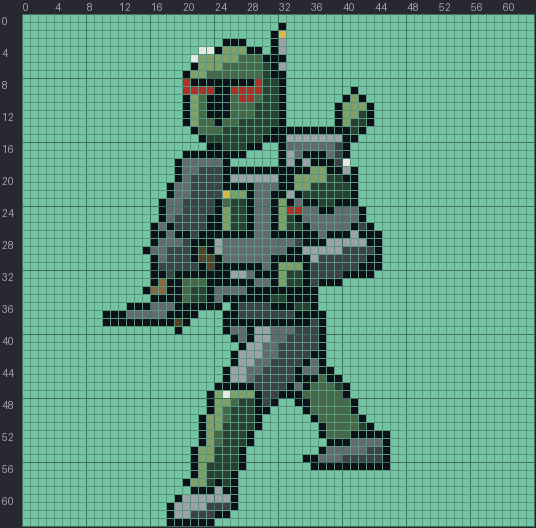
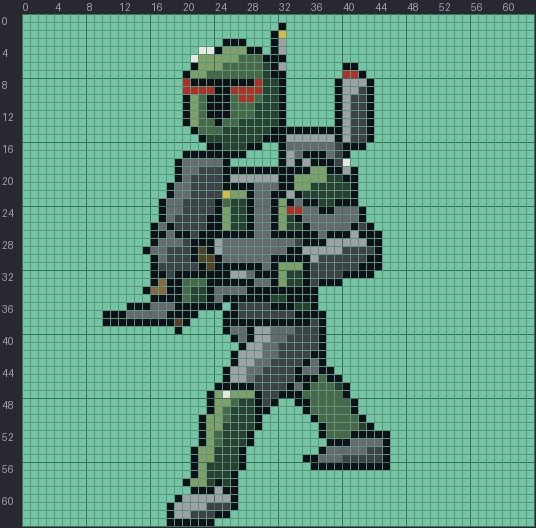
Add Obi-Wan and the round-4 style check sheet for trainer pics
- obiwan (replaces champion_wallace) in the picked 4b style; Boba's
  jetpack rocket redrawn.
- output/trainers/style-check-r4.png: Vader 4b, Boba Fett, Leia, Obi-Wan.
- Style guide: layering rule (faces as rig pixel layers under props),
  feedback log; README, checklist and decisions updated. P4 and P4c
  removed after the owner picked 4b.

Changed region(s): [[0.6269, 0.1212, 0.7164, 0.303]]

diff --git a/CHECKLIST.md b/CHECKLIST.md
@@ -28,7 +28,7 @@ as the work.
 | Tool | Status | Covers | Categories | Files | Drawn | Guide |
 | --- | --- | --- | --- | --- | --- | --- |
 | `walker` | **READY** | 16x32 people walkers (9-frame standard sheet) | A6, B3, C4 | 207 | 1 | [pipelines/walker/README.md](pipelines/walker/README.md) |
-| `trainer-front` | **IN-REVIEW** | 64x64 trainer battle pics with their own 16-colour palette | B1, B4 | 95 | 1 | [pipelines/trainer-front/README.md](pipelines/trainer-front/README.md) |
+| `trainer-front` | **IN-REVIEW** | 64x64 trainer battle pics with their own 16-colour palette | B1, B4 | 95 | 4 | [pipelines/trainer-front/README.md](pipelines/trainer-front/README.md) |
 | `trainer-back` | **TODO-NEED-TO-BUILD** | Player/partner battle back sprites (4-5 frame throw sheets) | B2 | 8 | 0 | - |
 | `creature` | **TODO-NEED-TO-BUILD** | Creature (Pokémon) battle front + 2nd anim frame, back, normal/shiny palettes | A1, A2, A5 | 1262 | 0 | - |
 | `icon` | **TODO-NEED-TO-BUILD** | Small fixed-size stills: item icons, berries, decorations, balls, type labels, creature party icons, footprints | A3, A4, C1, C2, C3, C5, C6 | 1144 | 0 | - |
@@ -43,7 +43,7 @@ as the work.
 ## Categories
 
 <!-- audit:categories -->
-**4064 PNGs to draw, 2 drawn** across 48 categories (unused art excluded). 3 `.pal` files sit outside any category (shared UI/misc palettes, owned by the tool that edits that screen).
+**4064 PNGs to draw, 5 drawn** across 48 categories (unused art excluded). 3 `.pal` files sit outside any category (shared UI/misc palettes, owned by the tool that edits that screen).
 
 ### A. Creatures
 
@@ -60,7 +60,7 @@ as the work.
 
 | # | Category | Where it shows | Format | PNGs | .pal | Drawn | Tool | Tool status |
 | --- | --- | --- | --- | --- | --- | --- | --- | --- |
-| B1 | Trainer battle front pics | Trainer battles, trainer card, Hall of Fame, Battle Frontier | 64x64, 1 frame, own 16-colour palette taken from the PNG | 93 |  | 1 | `trainer-front` | IN-REVIEW |
+| B1 | Trainer battle front pics | Trainer battles, trainer card, Hall of Fame, Battle Frontier | 64x64, 1 frame, own 16-colour palette taken from the PNG | 93 |  | 4 | `trainer-front` | IN-REVIEW |
 | B2 | Player battle back pics | Your side when a battle starts (ball throw) | 64x256/64x320 = 4-5 frames of 64x64, palette in graphics/trainers/palettes | 8 | 6 | 0 | `trainer-back` | TODO-NEED-TO-BUILD |
 | B3 | People overworld walkers | Overworld NPCs, player, rivals | 16x32 x 9 frames (standard), plus 32x32 big, 16x16 small and special sheets (bike, surf, fish, field move) | 133 | 36 | 1 | `walker` | READY (16x32 kit); other kits TODO-NEED-TO-BUILD |
 | B4 | Professor speech portrait | New-game intro | birch 64x64 still + shadow/unused frames | 2 |  | 0 | `trainer-front` | IN-REVIEW |
@@ -159,7 +159,7 @@ Work one tool at a time: build it, show the owner mockups in chat, iterate, mark
 1. [x] Audit every asset category, generate this checklist (2026-10-31).
 2. [x] Restructure the repo: `art/<category>/`, `output/<category>/`, `pipelines/<tool>/`, `catalog/`.
 3. [x] `walker` 16x32 people kit: Vader approved.
-4. [ ] `trainer-front`: tool built; Vader round 1 rejected (flat, front-on); round 2 (pose rig) picked the salute; round 3 (salute drawn with perspective) **IN-REVIEW**. Style guide: `pipelines/trainer-front/STYLE-GUIDE.md`.
+4. [ ] `trainer-front`: tool built; Vader round 1 rejected (flat, front-on); round 3 picked 4b's style; round 4 style check (Vader, Boba Fett, Leia, Obi-Wan) **IN-REVIEW**. Style guide: `pipelines/trainer-front/STYLE-GUIDE.md`.
 5. [ ] `trainer-back`: player throw sheets (needs the player character decided).
 6. [ ] `creature`: battle front (2 frames) + back + shiny palette.
 7. [ ] `icon`: item icons first (218), then berries, decorations, balls, type labels; derive party icons and footprints from creature fronts.

diff --git a/pipelines/trainer-front/STYLE-GUIDE.md b/pipelines/trainer-front/STYLE-GUIDE.md
@@ -91,7 +91,10 @@ drawn that way." What vanilla does instead (study Steven, Norman, Maxie, Drake a
    layers use the darker ramp.
 3. Build and look at `zoom.png` and `battle.png`. Fix the *pose* by moving joints until the
    silhouette alone (squint at the 1x battle view) says who it is and what they are doing.
-4. Only then add `patches:` for identity details: face, emblems, buttons, glints, folds.
+4. Then add identity details: faces, visors and emblems as `shape: pixels` layers at the right
+   depth in the rig (so a prop held in front can cover them), and only top-most accents
+   (glints, folds) as `patches:`.
+   Watch YAML: a ramp like `no`, `yes`, `on`, `off` parses as a boolean; pick other letters.
 5. Check lint: `symmetry` must be in range; explain any other accepted warning in the spec.
 6. Draw 3-4 **genuinely different** poses (not the same pose with a different arm) and send
    a `compare` sheet. Ask the owner a specific question, not "do you like it?".
@@ -122,7 +125,13 @@ drawn that way." What vanilla does instead (study Steven, Norman, Maxie, Drake a
   identical boots and a horizontal belt were the giveaways.
 - **2026-10-31, Vader round 3** (salute redrawn with perspective cues): 4b subtle (far boot in
   profile and higher, near boot toe-on, sloped belt and helmet brim, curved cape hem), 4c
-  stepping in (near leg forward, far leg trailing). Awaiting review.
+  stepping in (near leg forward, far leg trailing). Owner: "4b is okay, that's closer to what
+  I'm thinking. Make sure the saber goes over his helmet... get the layering right." Lessons:
+  4b is the reference style (subtle 3/4, profile + toe-on feet, sloped bands); held props
+  pass *in front of* the face/helmet, so faces are `pixels` layers inside the rig, drawn
+  before the prop, never `patches` (patches always land on top).
+- **2026-10-31, style check round 4**: Vader 4b (saber over the helmet) plus Boba Fett, Leia
+  and Obi-Wan in the same style, to confirm it generalises. Awaiting review.
 
 ## Contact sheet of the vanilla pics
 

diff --git a/pipelines/trainer-front/README.md b/pipelines/trainer-front/README.md
@@ -1,15 +1,16 @@
 # Tool: `trainer-front` (trainer battle pics)
 
-**Status: IN-REVIEW.** Vader round 3 (the picked salute pose redrawn with perspective) is with the owner. Category B1
+**Status: IN-REVIEW.** Style picked (Vader 4b); round 4 checks it on Boba Fett, Leia and
+Obi-Wan before marking READY. Category B1
 (93 pics) and B4 (professor portrait).
 
 **Read [STYLE-GUIDE.md](STYLE-GUIDE.md) first**: pose, perspective and pixel rules from the 93
 vanilla pics, a review checklist, and the owner's feedback log. Getting the pose right is the
 hard part of this category; the format is handled by the tool.
 
-Reference: `art/trainers/vader_p4b.yaml` and `vader_p4c.yaml` (round 3) next to `vader_p4.yaml`
-(round 2 pick); review sheets `output/trainers/vader-poses-r3.png` (current), `-r2.png`,
-`-r1.png` (rejected: front-on).
+Reference specs (picked style): `art/trainers/vader_p4b.yaml`, `boba.yaml`, `leia.yaml`,
+`obiwan.yaml`; review sheets `output/trainers/style-check-r4.png` (current), `vader-poses-r3.png`,
+`-r2.png`, `-r1.png` (rejected: front-on).
 
 ## Format (what the game needs)
 
@@ -29,7 +30,7 @@ edges, plenty of single-pixel highlights (orphans 11-23%).
 
 1. Find the asset in `emerald-sw-db/database/pending_art.csv` (`kind = trainers`) and the
    Star Wars character in `swap_map.csv`.
-2. Write `art/trainers/<name>.yaml` (copy `vader_p1.yaml`): `name`, `kit: trainer64`,
+2. Write `art/trainers/<name>.yaml` (copy `leia.yaml` or `boba.yaml`): `name`, `kit: trainer64`,
    `replaces`, inline `palette` (outline, 3-4 step ramp per material, accents), `legend`.
 3. Write a one-line pose brief (STYLE-GUIDE section 1), then block the pose with a `rig:`:
    named joints plus layered `capsule`/`ellipse`/`poly` shapes, back to front, each with a

diff --git a/docs/DECISIONS.md b/docs/DECISIONS.md
@@ -212,3 +212,13 @@ one toe-on), sloped and curved bands (belt, brim, hem), a centre line pushed to 
 and overlaps. Recorded as perspective cues in the style guide. The rig's ellipse gained
 `angle`. Round 3: 4b (subtle) and 4c (mid-stride toward the player), with 4 for reference.
 P1-P3 removed. Sheet: `output/trainers/vader-poses-r3.png`.
+
+## Trainer prototype 1: round 4, style check (2026-10-31)
+
+Owner: "4b is okay, closer to what I'm thinking. Make sure the saber goes over his helmet... get
+the layering right." Patches are always applied after the rig, so the face patch had covered
+the blade. Rig layers can now be `shape: pixels` (hand-placed pixels at a depth), and faces go
+there, before held props. P4 and P4c removed. To confirm the style generalises before marking
+the tool READY: Boba Fett (replaces `aqua_admin_m`, Matt), Leia (`steven`), Obi-Wan
+(`champion_wallace`), all 3/4 with profile + toe-on feet and sloped bands, symmetry 0.15-0.20.
+Sheet: `output/trainers/style-check-r4.png`.
